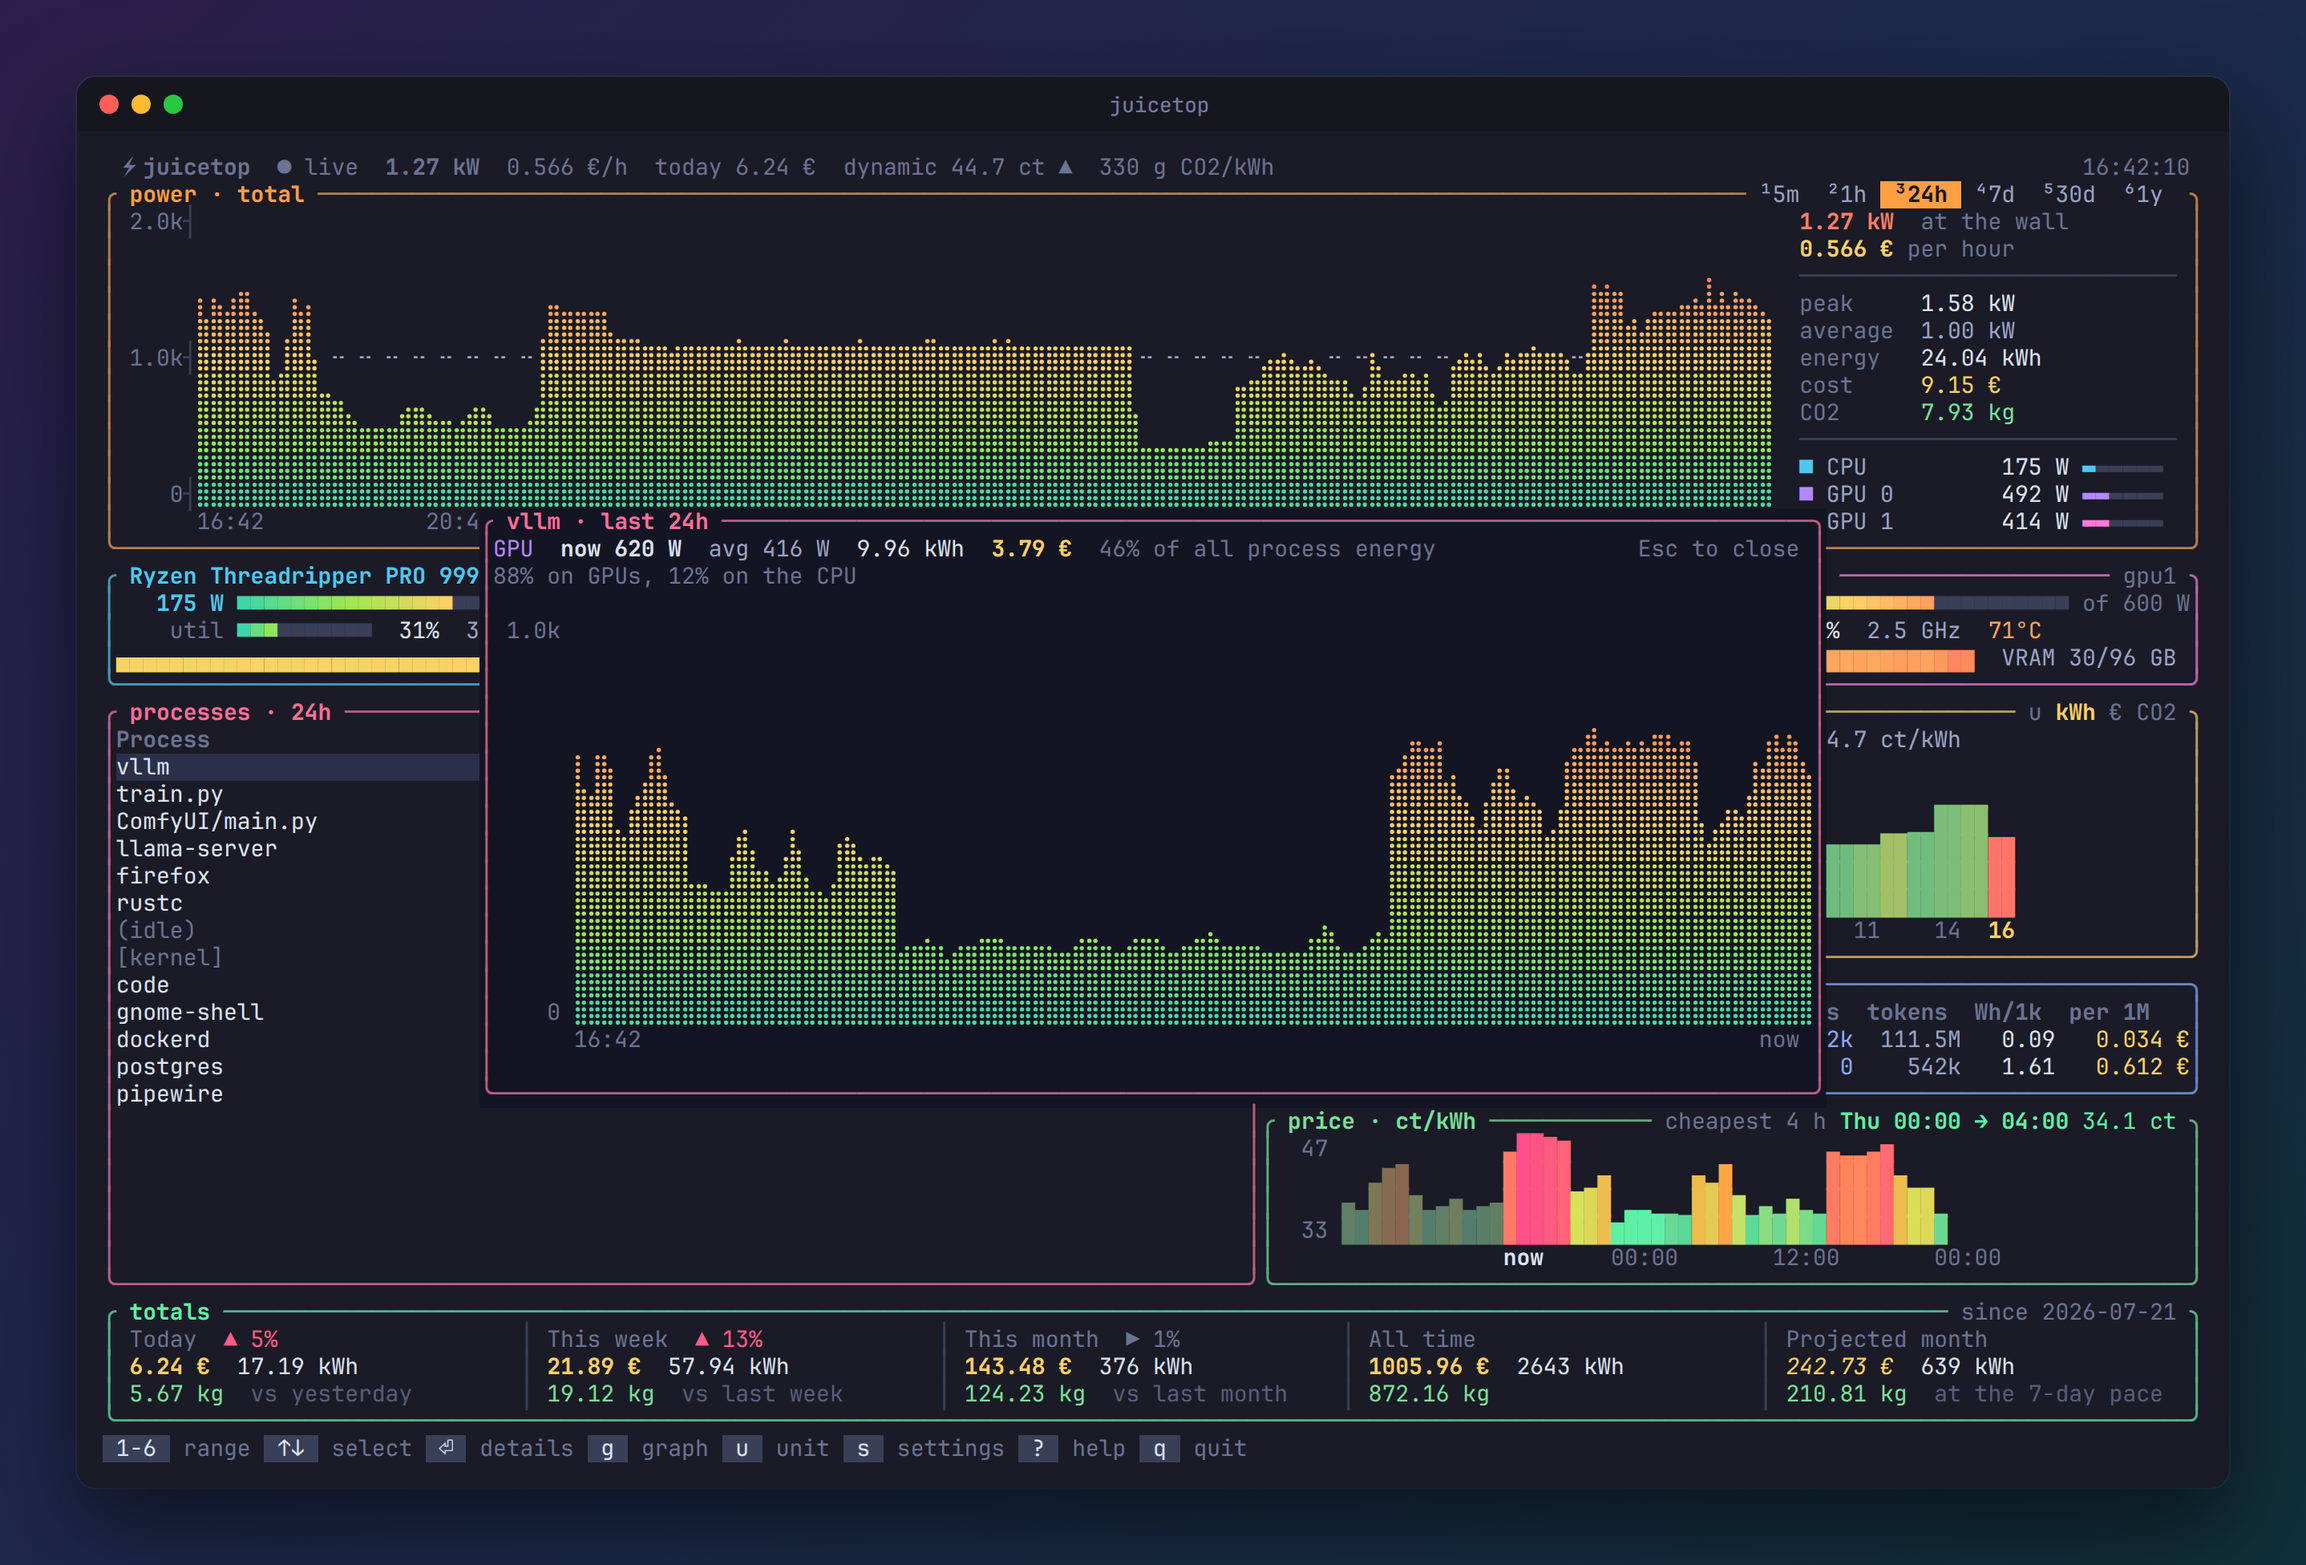
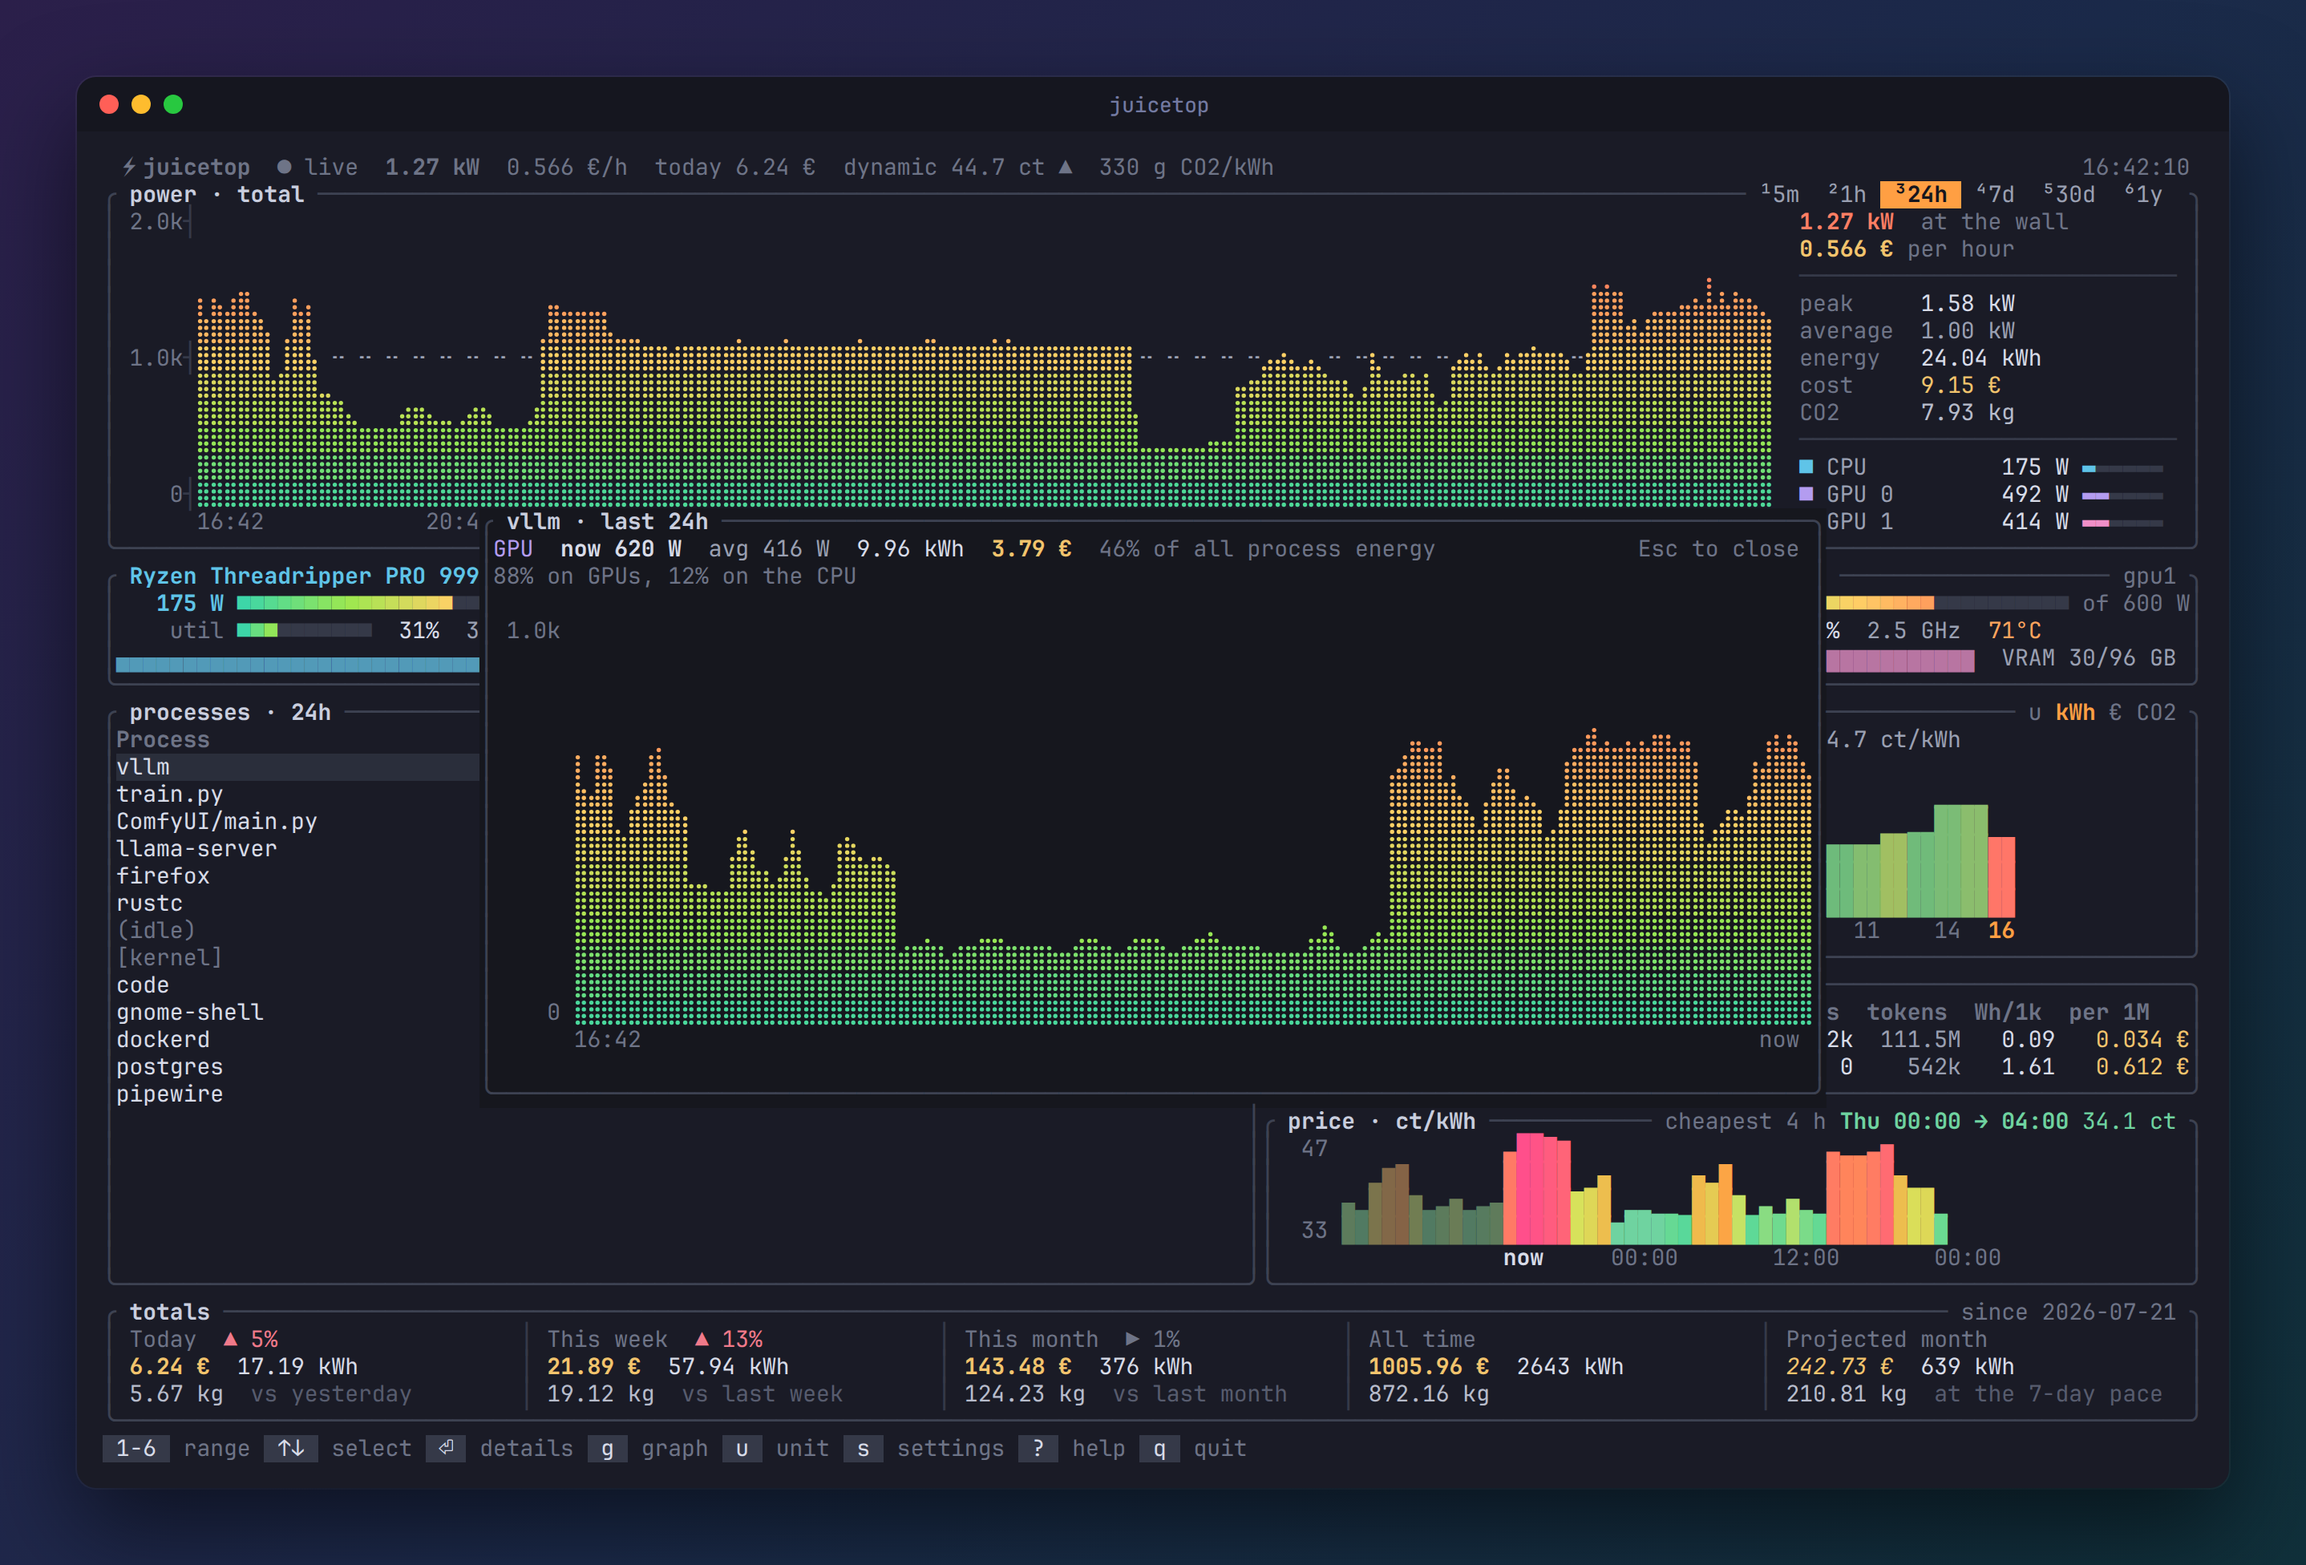
docs: show the themes and refresh the screenshots

diff --git a/examples/screenshots.rs b/examples/screenshots.rs
@@ -9,7 +9,7 @@ use std::fmt::Write as _;
 use std::path::PathBuf;
 
 use juicetop::config::PriceMode;
-use juicetop::tui::{self, App};
+use juicetop::tui::{self, App, theme};
 use ratatui::buffer::Buffer;
 use ratatui::crossterm::event::{KeyCode, KeyEvent, KeyModifiers};
 use ratatui::style::{Color, Modifier};
@@ -66,6 +66,18 @@ fn main() -> anyhow::Result<()> {
     key(&mut app, KeyCode::Right);
     key(&mut app, KeyCode::Right);
     write(&out, "setup", &tui::render(&app, COLS, ROWS))?;
+
+    let app = new_app();
+    write_themes(
+        &out,
+        &app,
+        &[
+            "nord",
+            "gruvbox-dark",
+            "catppuccin-mocha",
+            "solarized-light",
+        ],
+    )?;
 
     println!("wrote {}", out.display());
     Ok(())
@@ -132,7 +144,7 @@ fn escape(s: &str) -> String {
         .replace('>', "&gt;")
 }
 
-fn write(dir: &std::path::Path, name: &str, buf: &Buffer) -> anyhow::Result<()> {
+fn rows_html(buf: &Buffer) -> String {
     let area = buf.area;
     let mut rows = String::new();
     for y in 0..area.height {
@@ -165,33 +177,104 @@ fn write(dir: &std::path::Path, name: &str, buf: &Buffer) -> anyhow::Result<()> 
         }
         rows.push_str("</div>\n");
     }
+    rows
+}
+
+/// A terminal window around a rendered buffer.
+fn window(buf: &Buffer, title: &str, bg: &str, fg: &str) -> String {
+    format!(
+        r#"<div class="win" style="background:{bg}">
+<div class="bar"><span class="dot" style="background:#ff5f57"></span><span class="dot" style="background:#febc2e"></span><span class="dot" style="background:#28c840"></span><span class="title" style="color:{fg}">{title}</span></div>
+<div class="term">
+{rows}</div></div>"#,
+        rows = rows_html(buf)
+    )
+}
+
+fn page(
+    dir: &std::path::Path,
+    name: &str,
+    body: &str,
+    width: u32,
+    height: u32,
+    columns: u32,
+) -> anyhow::Result<()> {
     let html = format!(
         r#"<!doctype html>
 <html><head><meta charset="utf-8"><style>
 html, body {{ margin: 0; }}
 body {{
-  width: {page_w}px; height: {page_h}px; display: flex; align-items: center; justify-content: center;
+  width: {width}px; height: {height}px; display: grid; grid-template-columns: repeat({columns}, auto);
+  gap: 40px; align-content: center; justify-content: center;
   background: linear-gradient(135deg, #2b1f4a 0%, #1b2a4a 55%, #10303a 100%);
 }}
 .win {{
-  background: #1a1b26; border-radius: 12px; overflow: hidden;
+  border-radius: 12px; overflow: hidden;
   box-shadow: 0 24px 60px rgba(0,0,0,.55), 0 0 0 1px rgba(255,255,255,.06);
 }}
-.bar {{ height: 34px; display: flex; align-items: center; padding: 0 14px; gap: 8px; background: #16161e; }}
+.bar {{ height: 34px; display: flex; align-items: center; padding: 0 14px; gap: 8px; background: rgba(0,0,0,.18); }}
 .dot {{ width: 12px; height: 12px; border-radius: 50%; }}
-.title {{ flex: 1; text-align: center; margin-right: 52px; color: #737aa2;
-  font: 500 13px 'JetBrains Mono', monospace; }}
+.title {{ flex: 1; text-align: center; margin-right: 52px; font: 500 13px 'JetBrains Mono', monospace; }}
 .term {{ padding: 14px 16px 16px; font: 400 14px/17px 'JetBrains Mono', 'DejaVu Sans Mono', monospace; }}
 .r {{ height: 17px; white-space: pre; }}
 .r span {{ display: inline-block; width: 0.6em; height: 17px; text-align: center; vertical-align: top; overflow: visible; }}
-</style></head><body><div class="win">
-<div class="bar"><span class="dot" style="background:#ff5f57"></span><span class="dot" style="background:#febc2e"></span><span class="dot" style="background:#28c840"></span><span class="title">juicetop</span></div>
-<div class="term">
-{rows}</div></div></body></html>
-"#,
-        page_w = (area.width as f64 * 8.4) as u32 + 32 + 96,
-        page_h = area.height as u32 * 17 + 34 + 30 + 96,
+</style></head><body>
+{body}
+</body></html>
+"#
     );
     std::fs::write(dir.join(format!("{name}.html")), html)?;
     Ok(())
+}
+
+fn win_size(buf: &Buffer) -> (u32, u32) {
+    (
+        (buf.area.width as f64 * 8.4) as u32 + 32,
+        buf.area.height as u32 * 17 + 34 + 30,
+    )
+}
+
+fn write(dir: &std::path::Path, name: &str, buf: &Buffer) -> anyhow::Result<()> {
+    let (w, h) = win_size(buf);
+    page(
+        dir,
+        name,
+        &window(buf, "juicetop", "#1a1b26", "#737aa2"),
+        w + 96,
+        h + 96,
+        1,
+    )
+}
+
+/// Four themes side by side.
+fn write_themes(dir: &std::path::Path, app: &App, themes: &[&str]) -> anyhow::Result<()> {
+    let mut body = String::new();
+    let mut size = (0, 0);
+    for name in themes {
+        theme::set(name);
+        let buf = tui::render(app, 104, 32);
+        size = win_size(&buf);
+        let t = theme::t();
+        let bg = tone_hex(t.popup_bg, "#1a1b26");
+        let fg = tone_hex(t.dim, "#737aa2");
+        body.push_str(&window(&buf, t.label, &bg, &fg));
+    }
+    theme::set("juicetop");
+    let cols = 2;
+    let rows = themes.len().div_ceil(2) as u32;
+    page(
+        dir,
+        "themes",
+        &body,
+        size.0 * cols + 40 + 96,
+        size.1 * rows + 40 * (rows - 1) + 96,
+        cols,
+    )
+}
+
+fn tone_hex(t: theme::Tone, fallback: &str) -> String {
+    match t {
+        theme::Tone::Rgb(r, g, b) => format!("#{r:02x}{g:02x}{b:02x}"),
+        theme::Tone::Ansi(_) => fallback.to_string(),
+    }
 }

diff --git a/README.md b/README.md
@@ -30,6 +30,8 @@ tokens, and which hours tomorrow cost the least.
 - Energy per token for local model servers: llama.cpp, vLLM, SGLang and Text Generation Inference
 - The cheapest upcoming hours, for jobs you can schedule
 - A four-step setup on first start; changed settings apply to the whole history
+- Themes from popular editors: Tokyo Night, Catppuccin, Dracula, Nord, Gruvbox, One Dark,
+  Monokai, Solarized and GitHub Light, or your terminal's own colors
 - One binary. The collector uses about 1.5 % of one core and writes to disk once a minute
 
 ## Install
@@ -123,6 +125,28 @@ The mouse works for the range tabs, processes and bars.
   <img src="docs/images/detail.png" alt="The 24 hour history of one process" width="49%">
 </p>
 
+## Themes
+
+<p align="center">
+  <img src="docs/images/themes.png" alt="The dashboard in the Nord, Gruvbox Dark, Catppuccin Mocha and Solarized Light themes" width="100%">
+</p>
+
+The default theme keeps borders, titles and labels gray and uses color for data: the graphs,
+meters, money, devices and status. Open the settings with `s` and press `←` `→` on "Theme" to
+try the others live.
+
+| Theme | Name in the config |
+|---|---|
+| juicetop (default) | `juicetop` |
+| juicetop vivid, a color per panel | `juicetop-vivid` |
+| Tokyo Night, Catppuccin Mocha, Dracula, Nord | `tokyo-night`, `catppuccin-mocha`, `dracula`, `nord` |
+| Gruvbox Dark, One Dark, Monokai | `gruvbox-dark`, `one-dark`, `monokai` |
+| Solarized Dark, Solarized Light, GitHub Light | `solarized-dark`, `solarized-light`, `github-light` |
+| Your terminal's 16 colors | `terminal` |
+
+Pick a light theme if your terminal has a light background. Terminals without true color get the
+nearest of 256 colors.
+
 ## Energy per token
 
 The collector looks for model servers on your machine and reads their Prometheus counters every
@@ -171,6 +195,7 @@ The setup and the settings screen write `~/.config/juicetop/config.toml`. You ca
 ```toml
 country = "DE"
 currency = "€"
+theme = "juicetop"
 
 [price]
 mode = "fixed"              # "fixed", "time_of_use" or "dynamic"

diff --git a/AGENTS.md b/AGENTS.md
@@ -22,7 +22,8 @@ dashboard turns it into watts, kWh, money and CO2. `README.md` has the user view
 | `src/tui/mod.rs` | App state, event loop, keys and mouse. |
 | `src/tui/ui.rs` | Drawing of the dashboard and its popups. |
 | `src/tui/onboarding.rs` | The four-step setup. |
-| `src/tui/theme.rs`, `src/tui/widgets.rs` | Colors (true color with a 256-color fallback) and drawing primitives: braille area graphs, bars, meters, sparklines. |
+| `src/tui/theme.rs` | Themes. Every color comes from `theme::t()`; add a theme with the `ide_theme!` macro in `THEMES`. |
+| `src/tui/widgets.rs` | Drawing primitives: braille area graphs, bars, meters, sparklines. |
 | `src/tui/settings.rs` | The settings form; each field parses and validates its own input. |
 | `src/demo.rs` | Deterministic example data (a two-GPU workstation). Used by `juicetop demo`, render tests and screenshots. |
 | `src/service.rs` | `juicetop service install/uninstall/status`; embeds `packaging/systemd/*.service`. |
@@ -34,6 +35,9 @@ dashboard turns it into watts, kWh, money and CO2. `README.md` has the user view
   base load and PSU efficiency get applied in `report.rs` and `dashboard.rs`, so a changed setting
   re-prices history. Keep estimates out of the database.
 - **`ui.rs` draws.** New numbers go into `dashboard.rs` with a test, then `ui.rs` formats them.
+- **Color goes to data.** Frames, titles and labels use the theme's neutral roles (`border`,
+  `title`, `dim`). Graphs, meters, money, device identity and status may use color. Never hardcode
+  a color; add a role to `Theme` if one is missing.
 - **Readers open the database read-only.** The database uses a rollback journal (not WAL) so an
   unprivileged reader can open a root-owned file. Readers must cope with older schemas: check
   `Store::detect` before relying on a new column or table.

diff --git a/CHANGELOG.md b/CHANGELOG.md
@@ -20,10 +20,14 @@ This file lists notable changes. The format follows
   colored by price on variable tariffs.
 - Totals with a trend against the previous day, week and month.
 - Stacked power graph by device (`g`), mouse support, true color with a 256-color fallback.
+- Themes: juicetop, juicetop vivid, Tokyo Night, Catppuccin Mocha, Dracula, Nord, Gruvbox Dark,
+  One Dark, Monokai, Solarized Dark and Light, GitHub Light and the terminal's own colors.
+  Choose one in the settings.
 
 ### Changed
 
-- New look: filled braille graphs with a power gradient, colored panels, a status header.
+- New look: filled braille graphs with a power gradient, a status header, and a neutral frame
+  that leaves color to the data.
 - Process names drop the interpreter: `train.py`, `vllm`, `ComfyUI/main.py`.
 - The system service may reach localhost (model servers) and nothing else.
 - Money shows the symbol before the amount for $, £ and ¥.
